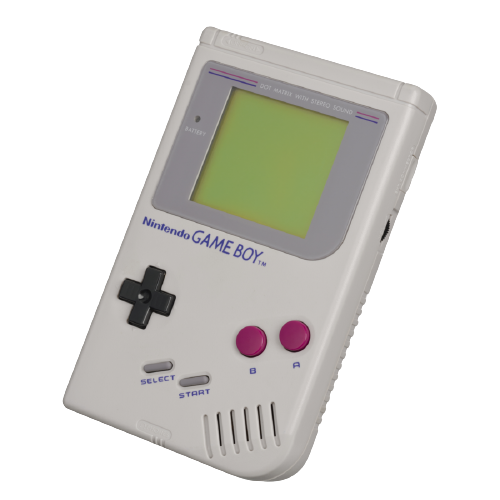
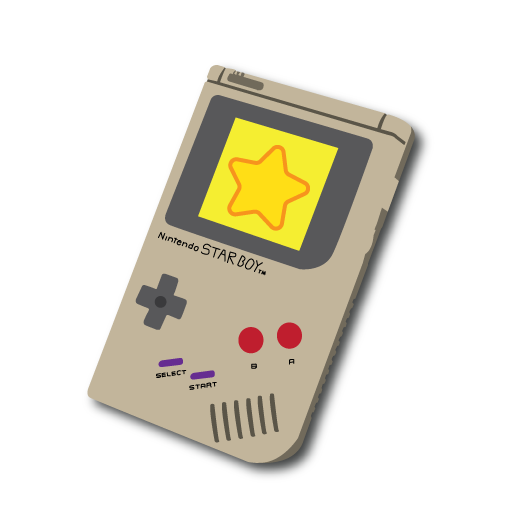
Hall of Fame & Graphics
Added Hall of Fame
Added new images for nav-bar
Updated nav-bar

diff --git a/src/styles/global.css b/src/styles/global.css
@@ -110,6 +110,7 @@ div {
   font-kerning: normal;
 }
 
+
 body {
   background-image: url('images/stars.gif');
 }
@@ -200,6 +201,7 @@ div.GtmBanner::after {
 }
 
 
+
 @keyframes rotating {
   from {
     transform: rotate(45deg);
@@ -210,7 +212,7 @@ div.GtmBanner::after {
 }
 
 header nav a:nth-child(1) {
-  background-image: url('images/ninja_ship.png');
+  background-image: url('images/ninjanode.png');
   background-size: 52px;
   background-repeat: no-repeat;
   background-position: center;
@@ -242,7 +244,7 @@ header nav a:nth-child(2):hover {
 }
 
 header nav a:nth-child(3) {
-  background-image: url('images/gameboy.png');
+  background-image: url('images/hof.png');
   background-size: 52px;
   background-repeat: no-repeat;
   background-position: center;
@@ -255,3 +257,59 @@ header nav a:nth-child(3) {
 header nav a:nth-child(3):hover {
   background-size: 72px;
 }
+
+header nav a:nth-child(4) {
+  background-image: url('images/gameboy.png');
+  background-size: 52px;
+  background-repeat: no-repeat;
+  background-position: center;
+  font-size: 0;
+  transition: 150ms all;
+  width: 81px;
+  height: 68px;
+}
+
+header nav a:nth-child(4):hover {
+  background-size: 72px;
+}
+
+header nav a:nth-child(5) {
+  background-image: url('images/sgm_nbg.png');
+  background-size: 52px;
+  background-repeat: no-repeat;
+  background-position: center;
+  font-size: 0;
+  transition: 150ms all;
+  width: 81px;
+  height: 68px;
+}
+
+header nav a:nth-child(5):hover {
+  background-size: 72px;
+}
+
+header nav a:nth-child(6) {
+  background-image: url('/images/graphics/portal.gif');
+  background-size: 52px;
+  background-repeat: no-repeat;
+  background-position: center;
+  font-size: 0;
+  transition: 150ms all;
+  width: 81px;
+  height: 68px;
+}
+
+header nav a:nth-child(6):hover {
+  background-size: 72px;
+}
+
+div.small-pic {
+  width: 70%;
+  transition: 2150ms all cubic-bezier(0.175, 0.885, 0.32, 1.275);
+}
+
+@media (max-device-width: 740px) {
+  div.small-pic {
+    width: 100%;
+  }
+} 
